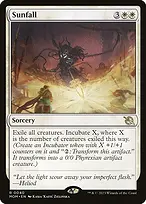
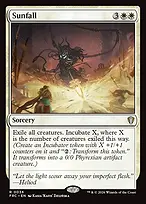
Refresh Sunfall catalog preview

diff --git a/docs/Bracket3/Sigarda-Hatebears.html b/docs/Bracket3/Sigarda-Hatebears.html
@@ -163,7 +163,7 @@
 </section><section class="cat">
   <h2>Sorceries <span class="count">4</span></h2>
   <ul class="cardlist">
-    <li class="card" data-name="Farseek" data-img="https://cards.scryfall.io/normal/front/c/1/c1aac0f5-1d01-4673-b8d3-878d9a1d423c.jpg?1783903231" data-thumb="../img/495e52e6-4c2b-4574-9474-eadbdcc8b4ac-front-thumb.webp" tabindex="0"><span class="qty">1</span><span class="cname">Farseek</span><span class="cost"><img class="ms" src="../mana/1.svg" alt="{1}" width="15" height="15"><img class="ms" src="../mana/G.svg" alt="{G}" width="15" height="15"></span></li>    <li class="card" data-name="Nature&#x27;s Lore" data-img="https://cards.scryfall.io/normal/front/7/a/7afc4a15-5ff8-457a-aa62-803b2d78d912.jpg?1783903228" data-thumb="../img/78826359-fe63-44ad-adc4-a17ffcd710e4-front-thumb.webp" tabindex="0"><span class="qty">1</span><span class="cname">Nature&#x27;s Lore</span><span class="cost"><img class="ms" src="../mana/1.svg" alt="{1}" width="15" height="15"><img class="ms" src="../mana/G.svg" alt="{G}" width="15" height="15"></span></li>    <li class="card" data-name="Three Visits" data-img="https://cards.scryfall.io/normal/front/9/9/99bf792f-963e-4509-8d3c-7db129c6a77f.jpg?1783903227" data-thumb="../img/1b882a0e-0ede-4d1a-bd1a-9b7cffbcde8e-front-thumb.webp" tabindex="0"><span class="qty">1</span><span class="cname">Three Visits</span><span class="cost"><img class="ms" src="../mana/1.svg" alt="{1}" width="15" height="15"><img class="ms" src="../mana/G.svg" alt="{G}" width="15" height="15"></span></li>    <li class="card" data-name="Sunfall" data-img="https://cards.scryfall.io/normal/front/3/2/32e29c7d-ed4b-4eff-b3c2-d99e5b63ef8d.jpg?1783917046" data-thumb="../img/fb3f5097-0da0-458c-8508-60823567e2da-front-thumb.webp" tabindex="0"><span class="qty">1</span><span class="cname">Sunfall</span><span class="cost"><img class="ms" src="../mana/3.svg" alt="{3}" width="15" height="15"><img class="ms" src="../mana/W.svg" alt="{W}" width="15" height="15"><img class="ms" src="../mana/W.svg" alt="{W}" width="15" height="15"></span></li>  </ul>
+    <li class="card" data-name="Farseek" data-img="https://cards.scryfall.io/normal/front/c/1/c1aac0f5-1d01-4673-b8d3-878d9a1d423c.jpg?1783903231" data-thumb="../img/495e52e6-4c2b-4574-9474-eadbdcc8b4ac-front-thumb.webp" tabindex="0"><span class="qty">1</span><span class="cname">Farseek</span><span class="cost"><img class="ms" src="../mana/1.svg" alt="{1}" width="15" height="15"><img class="ms" src="../mana/G.svg" alt="{G}" width="15" height="15"></span></li>    <li class="card" data-name="Nature&#x27;s Lore" data-img="https://cards.scryfall.io/normal/front/7/a/7afc4a15-5ff8-457a-aa62-803b2d78d912.jpg?1783903228" data-thumb="../img/78826359-fe63-44ad-adc4-a17ffcd710e4-front-thumb.webp" tabindex="0"><span class="qty">1</span><span class="cname">Nature&#x27;s Lore</span><span class="cost"><img class="ms" src="../mana/1.svg" alt="{1}" width="15" height="15"><img class="ms" src="../mana/G.svg" alt="{G}" width="15" height="15"></span></li>    <li class="card" data-name="Three Visits" data-img="https://cards.scryfall.io/normal/front/9/9/99bf792f-963e-4509-8d3c-7db129c6a77f.jpg?1783903227" data-thumb="../img/1b882a0e-0ede-4d1a-bd1a-9b7cffbcde8e-front-thumb.webp" tabindex="0"><span class="qty">1</span><span class="cname">Three Visits</span><span class="cost"><img class="ms" src="../mana/1.svg" alt="{1}" width="15" height="15"><img class="ms" src="../mana/G.svg" alt="{G}" width="15" height="15"></span></li>    <li class="card" data-name="Sunfall" data-img="https://cards.scryfall.io/normal/front/a/5/a560b9a7-4c00-4c0c-b63d-774d3f6b9aa9.jpg?1789611521" data-thumb="../img/fb3f5097-0da0-458c-8508-60823567e2da-front-thumb.webp" tabindex="0"><span class="qty">1</span><span class="cname">Sunfall</span><span class="cost"><img class="ms" src="../mana/3.svg" alt="{3}" width="15" height="15"><img class="ms" src="../mana/W.svg" alt="{W}" width="15" height="15"><img class="ms" src="../mana/W.svg" alt="{W}" width="15" height="15"></span></li>  </ul>
 </section><section class="cat">
   <h2>Artifacts <span class="count">5</span></h2>
   <ul class="cardlist">
